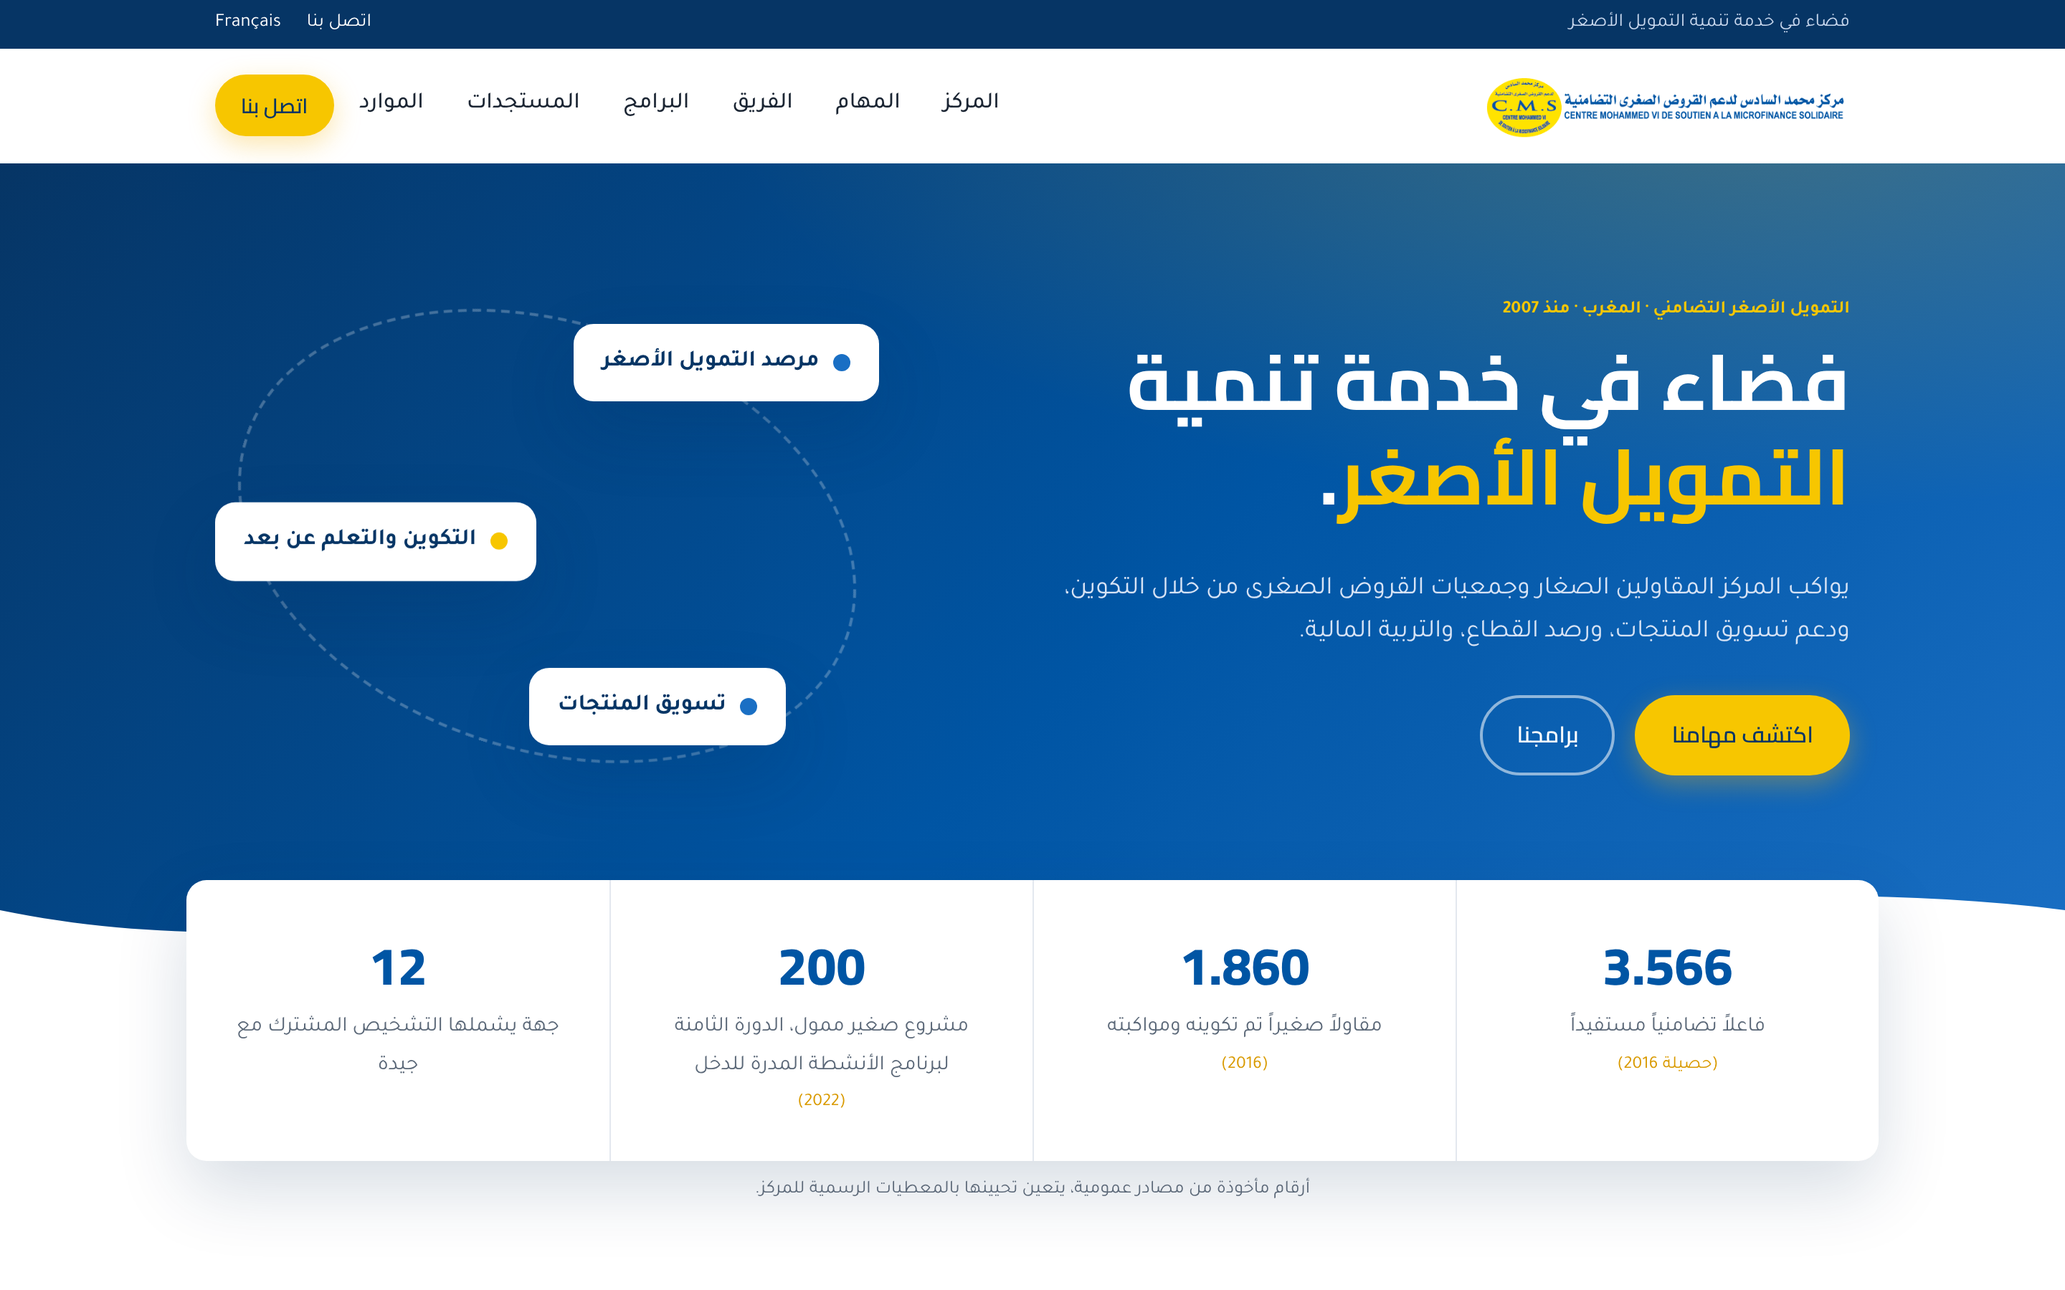
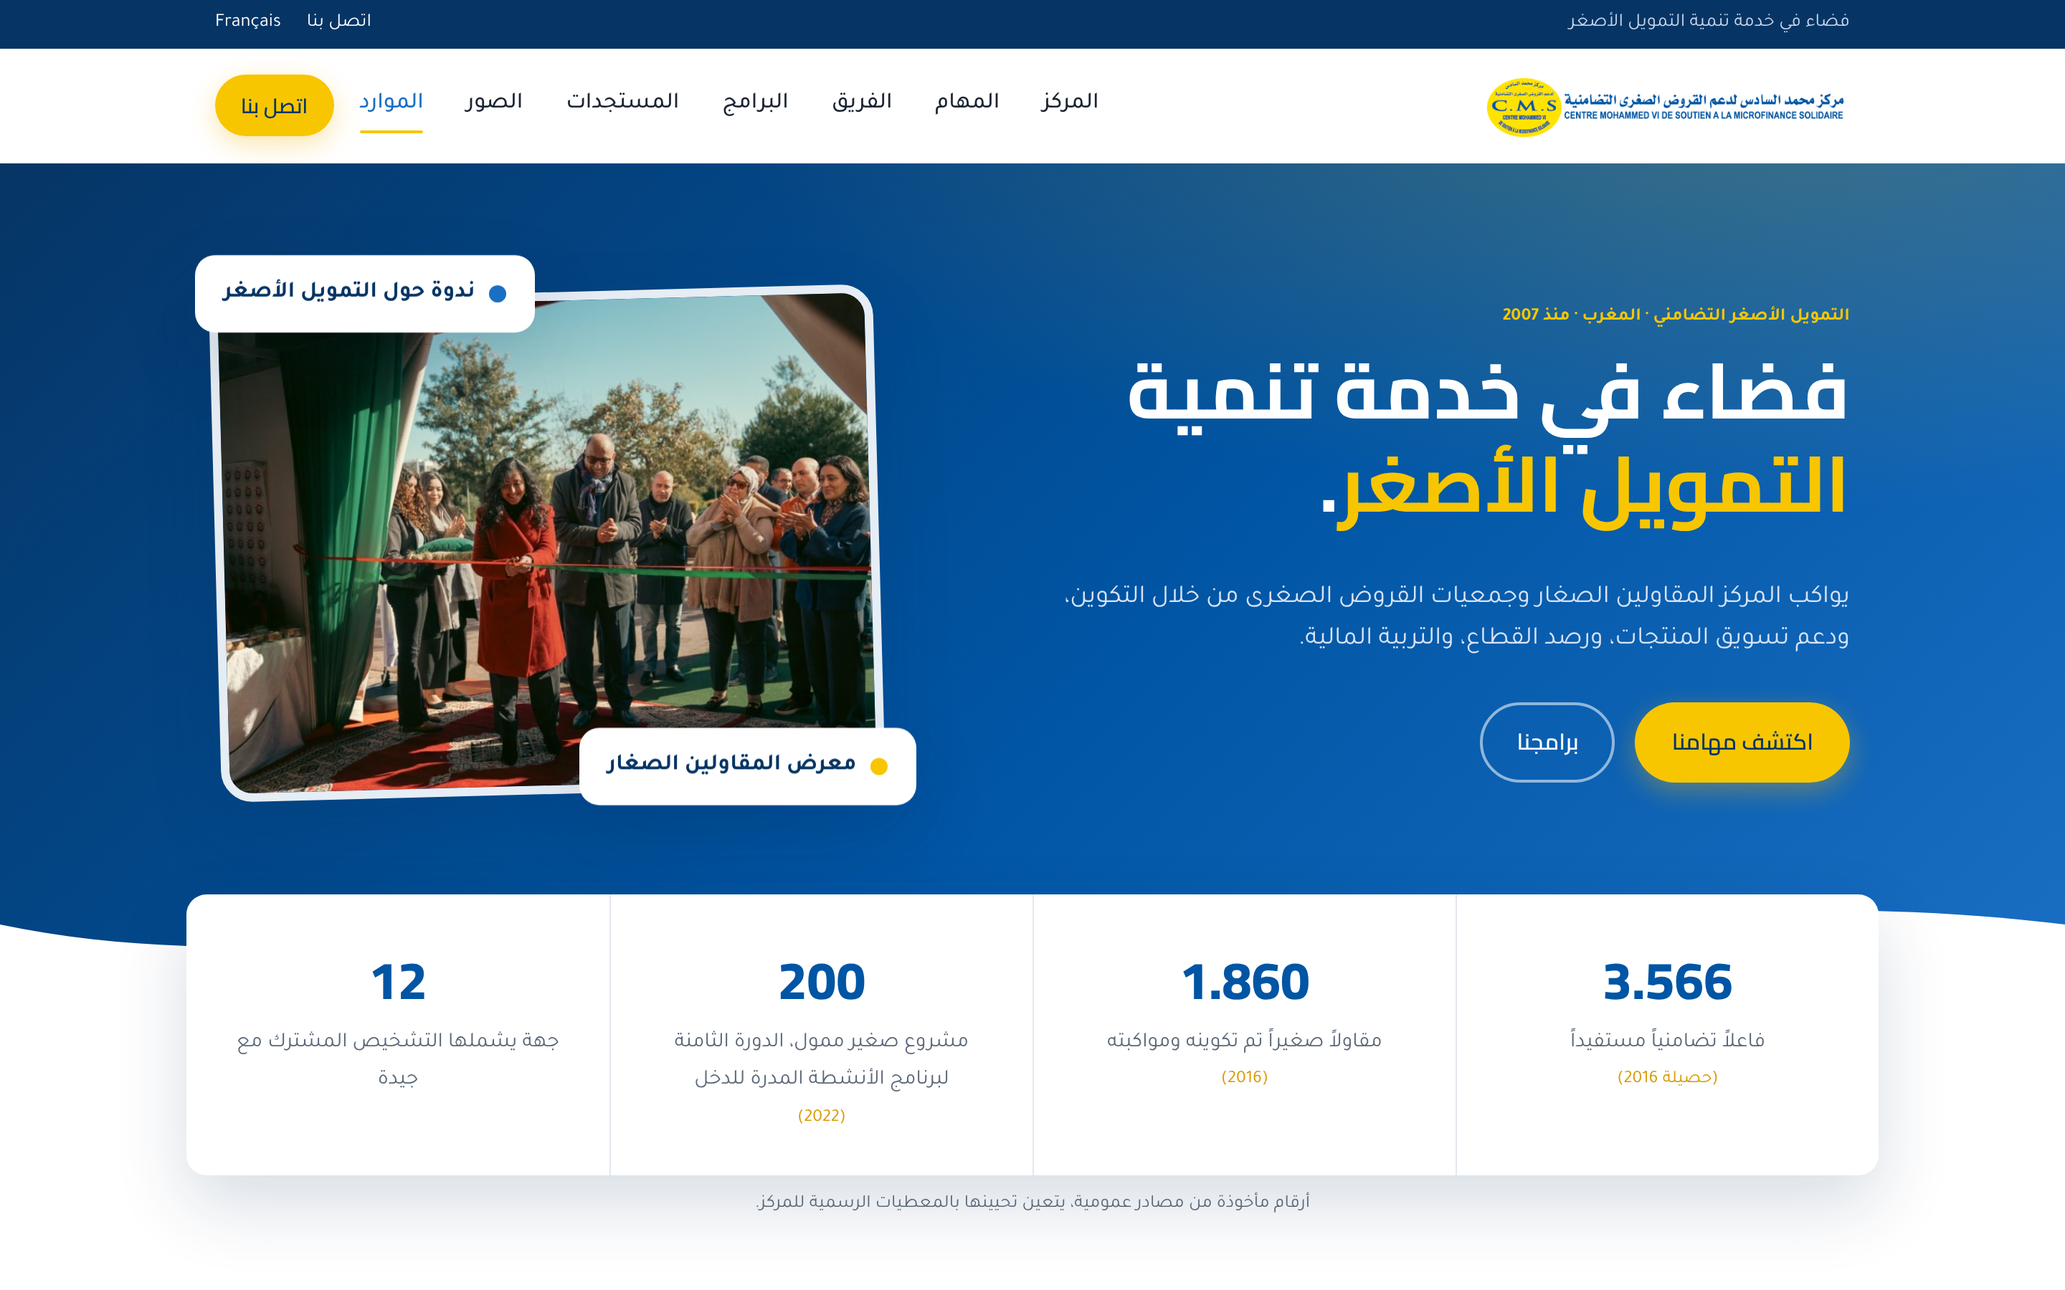
Add event photos (hero, about, news, new gallery) and refresh mockups
Claude-Session: https://claude.ai/code/session_01E4fSS453KNP6Z4XtxBn8c1

diff --git a/ar.html b/ar.html
@@ -40,6 +40,7 @@
           <li><a href="ar-equipe.html">الفريق</a></li>
           <li><a href="#programmes">البرامج</a></li>
           <li><a href="#actualites">المستجدات</a></li>
+          <li><a href="#galerie">الصور</a></li>
           <li><a href="#publications">الموارد</a></li>
           <li><a class="btn btn--accent btn--sm" href="#contact">اتصل بنا</a></li>
         </ul>
@@ -59,11 +60,10 @@
             <a class="btn btn--ghost" href="#programmes">برامجنا</a>
           </div>
         </div>
-        <div class="hero__visual reveal" aria-hidden="true">
-          <div class="hero__card hero__card--1"><span class="dot"></span>مرصد التمويل الأصغر</div>
-          <div class="hero__card hero__card--2"><span class="dot dot--y"></span>التكوين والتعلم عن بعد</div>
-          <div class="hero__card hero__card--3"><span class="dot"></span>تسويق المنتجات</div>
-          <div class="hero__circle"></div>
+        <div class="hero__visual reveal">
+          <figure class="hero__photo"><img src="assets/photos/salon-inauguration.jpg" width="1024" height="682" alt="افتتاح معرض منتجات المقاولين الصغار"></figure>
+          <div class="hero__card hero__card--1" aria-hidden="true"><span class="dot dot--y"></span>معرض المقاولين الصغار</div>
+          <div class="hero__card hero__card--3" aria-hidden="true"><span class="dot"></span>ندوة حول التمويل الأصغر</div>
         </div>
       </div>
       <svg class="hero__wave" viewBox="0 0 1440 90" preserveAspectRatio="none" aria-hidden="true">
@@ -84,7 +84,7 @@
     <section class="section" id="centre">
       <div class="container split">
         <div class="split__media reveal">
-          <div class="photo-placeholder"><span>صورة مؤسساتية للمركز</span></div>
+          <img class="photo" src="assets/photos/salon-interview-map.jpg" width="1024" height="684" alt="حوار صحفي في المعرض أمام لافتة المركز" loading="lazy">
         </div>
         <div class="split__content reveal">
           <p class="eyebrow">المركز</p>
@@ -187,29 +187,45 @@
         </header>
         <div class="news">
           <article class="news__item reveal">
-            <div class="news__img photo-placeholder"><span>صورة</span></div>
+            <img class="news__img" src="assets/photos/seminaire-panel-1.jpg" alt="" loading="lazy">
             <div class="news__body">
-              <time datetime="2022-06">يونيو 2022</time>
+              <time>ندوة</time>
+              <h3><a href="#galerie">التحول المؤسساتي والرقمي لقطاع التمويل الأصغر</a></h3>
+              <p>جلستان: تشخيص الوضع والتحول المؤسساتي، ثم التحول الرقمي ونموذج تشغيلي جديد.</p>
+            </div>
+          </article>
+          <article class="news__item reveal">
+            <img class="news__img" src="assets/photos/salon-inauguration.jpg" alt="" loading="lazy">
+            <div class="news__body">
+              <time>معرض</time>
+              <h3><a href="#galerie">افتتاح معرض منتجات المقاولين الصغار</a></h3>
+              <p>افتتاح رسمي وزيارة أروقة العارضين الذين يواكبهم المركز.</p>
+            </div>
+          </article>
+          <article class="news__item reveal">
+            <img class="news__img" src="assets/photos/salon-visite-stands.jpg" alt="" loading="lazy">
+            <div class="news__body">
+              <time>يونيو 2022</time>
               <h3><a href="https://www.yabiladi.com/articles/details/137052/maroc-pour-financement-micro-projets-proximite.html" target="_blank" rel="noopener">3 ملايين درهم لتمويل 200 مشروع صغير للقرب</a></h3>
               <p>الدورة الثامنة لبرنامج الأنشطة المدرة للدخل تنتقي 200 مشروع يحملها 476 مستفيداً من سبع جمعيات للقروض الصغرى.</p>
             </div>
           </article>
-          <article class="news__item reveal">
-            <div class="news__img photo-placeholder"><span>صورة</span></div>
-            <div class="news__body">
-              <time datetime="2021-03-18">18 مارس 2021</time>
-              <h3><a href="https://ecoactu.ma/microfinance-solidaire-centre-mohammed-vi-jaida/" target="_blank" rel="noopener">اتفاقية شراكة مع جيدة</a></h3>
-              <p>المركز وجيدة يتعاونان لتشخيص المؤهلات السوسيو-اقتصادية للجهات الاثنتي عشرة.</p>
-            </div>
-          </article>
-          <article class="news__item reveal">
-            <div class="news__img photo-placeholder"><span>صورة</span></div>
-            <div class="news__body">
-              <time>التكوين عن بعد</time>
-              <h3><a href="https://finance-inclusive.ma/microfinance-le-centre-mohammed-vi-monte-en-puissance-dans-le-formation/" target="_blank" rel="noopener">المركز يعزز حضوره في التكوين عن بعد</a></h3>
-              <p>توسيع التكوين عن بعد ليشمل أعوان وزبناء جمعيات القروض الصغرى.</p>
-            </div>
-          </article>
+        </div>
+      </div>
+    </section>
+
+    <section class="section" id="galerie">
+      <div class="container">
+        <header class="section__head reveal">
+          <p class="eyebrow">بالصور</p>
+          <h2>المركز في الميدان</h2>
+        </header>
+        <div class="gallery">
+          <figure class="gallery__item gallery__item--wide reveal"><img src="assets/photos/salon-inauguration.jpg" alt="افتتاح المعرض"><figcaption>افتتاح المعرض</figcaption></figure>
+          <figure class="gallery__item reveal"><img src="assets/photos/seminaire-panel-1.jpg" alt="الندوة — الجلسة الأولى: تشخيص الوضع والتحول المؤسساتي"><figcaption>الندوة — الجلسة الأولى: تشخيص الوضع والتحول المؤسساتي</figcaption></figure>
+          <figure class="gallery__item reveal"><img src="assets/photos/salon-visite-stands.jpg" alt="زيارة أروقة المقاولين الصغار"><figcaption>زيارة أروقة المقاولين الصغار</figcaption></figure>
+          <figure class="gallery__item reveal"><img src="assets/photos/seminaire-panel-2.jpg" alt="الندوة — الجلسة الثانية: التحول الرقمي"><figcaption>الندوة — الجلسة الثانية: التحول الرقمي</figcaption></figure>
+          <figure class="gallery__item reveal"><img src="assets/photos/salon-interview-map.jpg" alt="حوار مع وكالة المغرب العربي للأنباء خلال المعرض"><figcaption>حوار مع وكالة المغرب العربي للأنباء خلال المعرض</figcaption></figure>
         </div>
       </div>
     </section>

diff --git a/index.html b/index.html
@@ -41,6 +41,7 @@
           <li><a href="equipe.html">Équipe</a></li>
           <li><a href="#programmes">Programmes</a></li>
           <li><a href="#actualites">Actualités</a></li>
+          <li><a href="#galerie">Galerie</a></li>
           <li><a href="#publications">Ressources</a></li>
           <li><a class="btn btn--accent btn--sm" href="#contact">Nous contacter</a></li>
         </ul>
@@ -61,11 +62,10 @@
             <a class="btn btn--ghost" href="#programmes">Nos programmes</a>
           </div>
         </div>
-        <div class="hero__visual reveal" aria-hidden="true">
-          <div class="hero__card hero__card--1"><span class="dot"></span>Observatoire de la microfinance</div>
-          <div class="hero__card hero__card--2"><span class="dot dot--y"></span>Formation &amp; e-learning</div>
-          <div class="hero__card hero__card--3"><span class="dot"></span>Commercialisation des produits</div>
-          <div class="hero__circle"></div>
+        <div class="hero__visual reveal">
+          <figure class="hero__photo"><img src="assets/photos/salon-inauguration.jpg" width="1024" height="682" alt="Inauguration d'un salon des produits des micro-entrepreneurs"></figure>
+          <div class="hero__card hero__card--1" aria-hidden="true"><span class="dot dot--y"></span>Salon des micro-entrepreneurs</div>
+          <div class="hero__card hero__card--3" aria-hidden="true"><span class="dot"></span>Séminaire sur la microfinance</div>
         </div>
       </div>
       <svg class="hero__wave" viewBox="0 0 1440 90" preserveAspectRatio="none" aria-hidden="true">
@@ -88,7 +88,7 @@
     <section class="section" id="centre">
       <div class="container split">
         <div class="split__media reveal">
-          <div class="photo-placeholder"><span>Photo institutionnelle du Centre</span></div>
+          <img class="photo" src="assets/photos/salon-interview-map.jpg" width="1024" height="684" alt="Interview au salon, devant la bannière du Centre" loading="lazy">
         </div>
         <div class="split__content reveal">
           <p class="eyebrow">Le Centre</p>
@@ -194,29 +194,45 @@
         </header>
         <div class="news">
           <article class="news__item reveal">
-            <div class="news__img photo-placeholder"><span>Image</span></div>
+            <img class="news__img" src="assets/photos/seminaire-panel-1.jpg" alt="" loading="lazy">
             <div class="news__body">
-              <time datetime="2022-06">Juin 2022</time>
+              <time>Séminaire</time>
+              <h3><a href="#galerie">La transformation institutionnelle et digitale du secteur de la microfinance</a></h3>
+              <p>Deux panels : état des lieux et transformation institutionnelle, puis transformation digitale et nouveau modèle opérationnel.</p>
+            </div>
+          </article>
+          <article class="news__item reveal">
+            <img class="news__img" src="assets/photos/salon-inauguration.jpg" alt="" loading="lazy">
+            <div class="news__body">
+              <time>Salon</time>
+              <h3><a href="#galerie">Ouverture du salon des produits des micro-entrepreneurs</a></h3>
+              <p>Inauguration officielle et visite des stands des exposants accompagnés par le Centre.</p>
+            </div>
+          </article>
+          <article class="news__item reveal">
+            <img class="news__img" src="assets/photos/salon-visite-stands.jpg" alt="" loading="lazy">
+            <div class="news__body">
+              <time>Juin 2022</time>
               <h3><a href="https://www.yabiladi.com/articles/details/137052/maroc-pour-financement-micro-projets-proximite.html" target="_blank" rel="noopener">3 MDH pour 200 micro-projets de proximité</a></h3>
               <p>La 8<sup>e</sup> édition du programme AGR retient 200 micro-projets portés par 476 bénéficiaires issus de sept associations de microcrédit.</p>
             </div>
           </article>
-          <article class="news__item reveal">
-            <div class="news__img photo-placeholder"><span>Image</span></div>
-            <div class="news__body">
-              <time datetime="2021-03-18">18 mars 2021</time>
-              <h3><a href="https://ecoactu.ma/microfinance-solidaire-centre-mohammed-vi-jaida/" target="_blank" rel="noopener">Convention de partenariat avec Jaïda</a></h3>
-              <p>Le CMS et Jaïda s'associent pour diagnostiquer les potentiels socio-économiques des 12 régions.</p>
-            </div>
-          </article>
-          <article class="news__item reveal">
-            <div class="news__img photo-placeholder"><span>Image</span></div>
-            <div class="news__body">
-              <time>E-formation</time>
-              <h3><a href="https://finance-inclusive.ma/microfinance-le-centre-mohammed-vi-monte-en-puissance-dans-le-formation/" target="_blank" rel="noopener">Le Centre monte en puissance dans l'e-formation</a></h3>
-              <p>La formation à distance s'étend aux agents et aux clients des associations de microcrédit.</p>
-            </div>
-          </article>
+        </div>
+      </div>
+    </section>
+
+    <section class="section" id="galerie">
+      <div class="container">
+        <header class="section__head reveal">
+          <p class="eyebrow">En images</p>
+          <h2>Le Centre sur le terrain</h2>
+        </header>
+        <div class="gallery">
+          <figure class="gallery__item gallery__item--wide reveal"><img src="assets/photos/salon-inauguration.jpg" alt="Inauguration du salon"><figcaption>Inauguration du salon</figcaption></figure>
+          <figure class="gallery__item reveal"><img src="assets/photos/seminaire-panel-1.jpg" alt="Séminaire — Panel 1 : état des lieux et transformation institutionnelle"><figcaption>Séminaire — Panel 1 : état des lieux et transformation institutionnelle</figcaption></figure>
+          <figure class="gallery__item reveal"><img src="assets/photos/salon-visite-stands.jpg" alt="Visite des stands des micro-entrepreneurs"><figcaption>Visite des stands des micro-entrepreneurs</figcaption></figure>
+          <figure class="gallery__item reveal"><img src="assets/photos/seminaire-panel-2.jpg" alt="Séminaire — Panel 2 : transformation digitale"><figcaption>Séminaire — Panel 2 : transformation digitale</figcaption></figure>
+          <figure class="gallery__item reveal"><img src="assets/photos/salon-interview-map.jpg" alt="Interview accordée à la MAP pendant le salon"><figcaption>Interview accordée à la MAP pendant le salon</figcaption></figure>
         </div>
       </div>
     </section>

diff --git a/css/styles.css b/css/styles.css
@@ -267,6 +267,38 @@ p { margin: 0 0 1em; }
 @media (max-width: 900px) { .team { grid-template-columns: repeat(2, 1fr); } .org__row { grid-template-columns: 1fr 1fr; } }
 @media (max-width: 600px) { .team--lead { grid-template-columns: 1fr; } .org__row { grid-template-columns: 1fr; } .team { grid-template-columns: 1fr 1fr; gap: 14px; } .member { padding: 20px 12px; } }
 
+
+/* ---------- Photos ---------- */
+.hero__visual { min-height: 0; }
+.hero__photo { margin: 0; border-radius: 22px; overflow: hidden; border: 6px solid rgba(255,255,255,.9); box-shadow: var(--shadow-lg); transform: rotate(1.5deg); }
+.hero__photo img { width: 100%; height: auto; aspect-ratio: 4 / 3; object-fit: cover; }
+.hero__visual .hero__card--1 { top: auto; bottom: -18px; left: -26px; }
+.hero__visual .hero__card--3 { bottom: auto; top: -18px; left: auto; right: -14px; }
+[dir="rtl"] .hero__photo { transform: rotate(-1.5deg); }
+[dir="rtl"] .hero__visual .hero__card--1 { left: auto; right: -26px; }
+[dir="rtl"] .hero__visual .hero__card--3 { right: auto; left: -14px; }
+.split__media .photo { width: 100%; height: auto; aspect-ratio: 4 / 3.4; object-fit: cover; border-radius: var(--radius); box-shadow: var(--shadow); position: relative; }
+.split__media::after { content: ""; position: absolute; width: 120px; height: 120px; border-radius: 24px; background: var(--yellow); right: -20px; bottom: -20px; z-index: -1; }
+[dir="rtl"] .split__media::after { right: auto; left: -20px; }
+img.news__img { width: 100%; height: auto; aspect-ratio: 16 / 10; object-fit: cover; display: block; }
+.gallery { display: grid; grid-template-columns: repeat(3, 1fr); gap: 18px; }
+.gallery__item { margin: 0; position: relative; border-radius: var(--radius); overflow: hidden; background: var(--blue-900); }
+.gallery__item img { width: 100%; height: 100%; aspect-ratio: 4 / 3; object-fit: cover; transition: transform .5s ease; }
+.gallery__item:hover img { transform: scale(1.04); }
+.gallery__item--wide { grid-column: span 2; grid-row: span 2; }
+.gallery__item:last-child { grid-column: span 2; }
+.gallery__item:last-child img { aspect-ratio: 8 / 3; }
+.gallery__item figcaption { position: absolute; inset: auto 0 0 0; padding: 40px 18px 14px; color: #fff; font-size: .9rem; font-weight: 500; background: linear-gradient(transparent, rgba(6,53,101,.9)); }
+@media (max-width: 900px) { .gallery { grid-template-columns: 1fr 1fr; } }
+@media (max-width: 600px) {
+  .hero__visual { display: block; }
+  .hero__visual .hero__card { display: none; }
+  .hero__photo { transform: none; }
+  .gallery { grid-template-columns: 1fr; }
+  .gallery__item--wide, .gallery__item:last-child { grid-column: auto; grid-row: auto; }
+  .gallery__item:last-child img { aspect-ratio: 4 / 3; }
+}
+
 /* Reveal on scroll */
 .reveal { opacity: 0; transform: translateY(24px); transition: opacity .7s ease, transform .7s ease; }
 .reveal.is-visible { opacity: 1; transform: none; }
